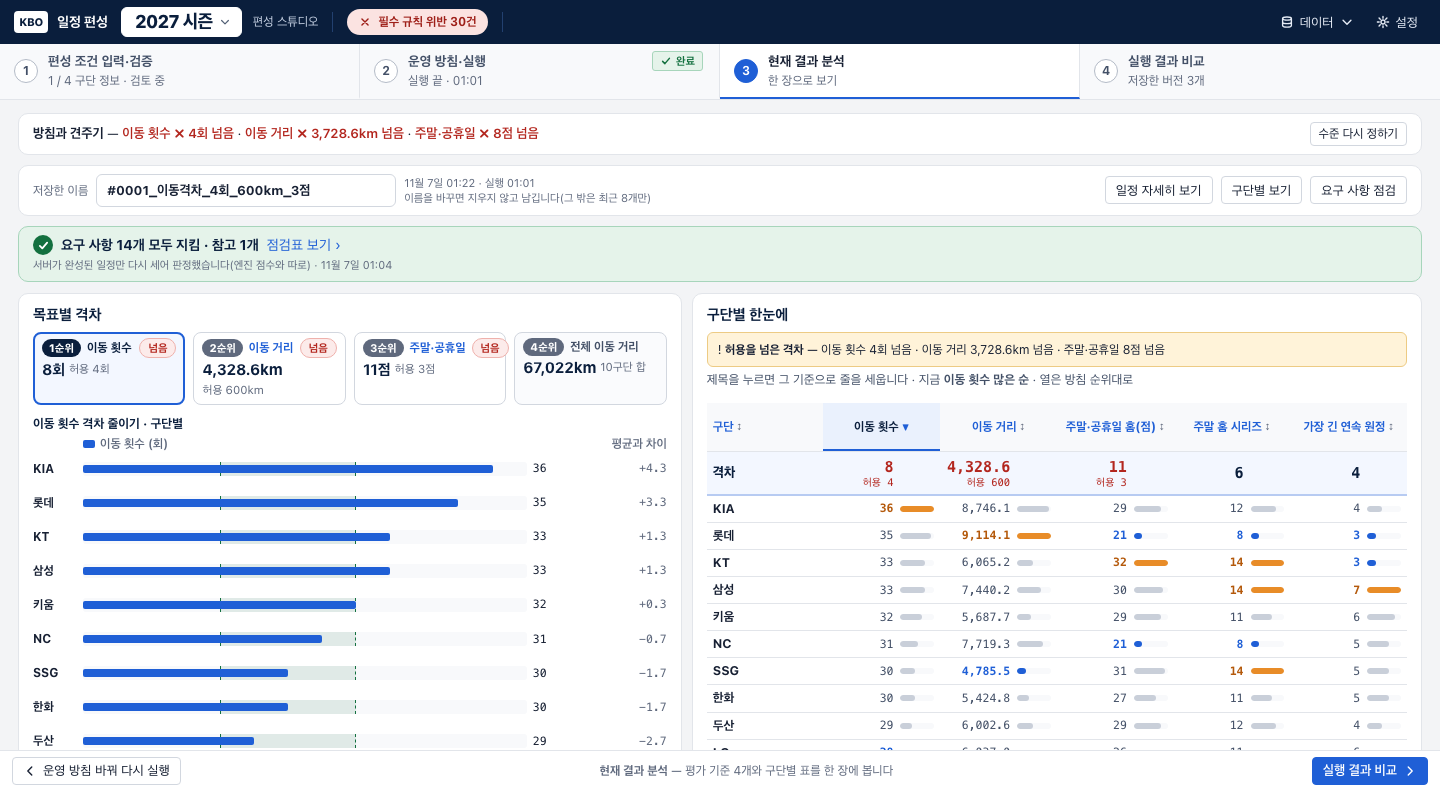
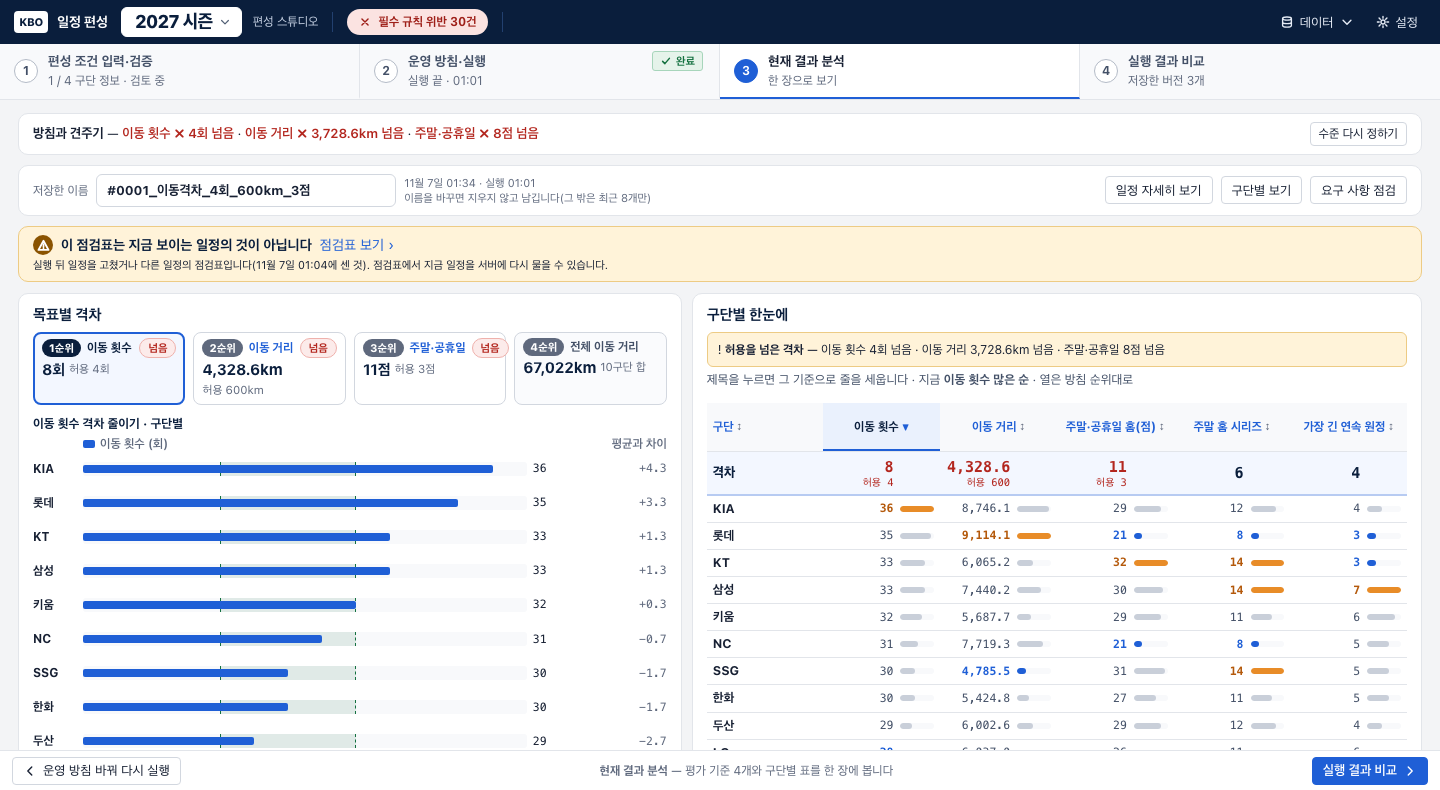
점검표에 일정 지문(planSig): 서버가 점검한 일정의 지문을 찍고, 화면은 지금 일정의 지문과 같을 때만 「이 일정의 점검표」로 보인다
- RequirementChecker.planSig = 시리즈(홈>원정/연전)·연전 기간(시작일/연전)·배정(시리즈 번호 순)을 FNV-1a 32비트로 줄인 값.
  ui/core/engine-adapter.js planSignature가 같은 식(PlanSignatureTest·run-tests.js가 같은 상수 64bedacb로 맞춤)
- 지문이 다르면(실행 뒤 경기를 옮겼거나 다른 일정의 점검표) 현재 결과 분석 요약 줄·점검표·출전표가 지킨 개수를 내걸지 않고
  「이 점검표는 지금 보이는 일정의 것이 아닙니다」를 노랑 띠로 크게 적는다. 실행 결과 비교 표도 「다른 일정의 점검표」.
  점검 경로 demo=verify(2025 점검표를 2027 달력에 얹음)가 이제 그 띠를 보여 준다

Changed region(s): [[0.0, 0.2734, 1.0, 0.3646], [0.3438, 0.2127, 0.375, 0.243]]

diff --git a/ui/app/studio/verify-view.js b/ui/app/studio/verify-view.js
@@ -23,12 +23,15 @@
   const V = P.verify = { data: null, at: null, sig: null, loading: false, error: null, offline: false, filter: 'all', open: {}, gopen: {}, day: null };
 
   // ───────── 공통 ─────────
-  /** 일정의 지문: 시리즈 수 + 배정. 실행 뒤 경기를 옮겼는지 본다 */
-  V.planSig = (st) => st.matches.length + ':' + st.plan.map((x) => x.calendar).join(',');
+  /** 일정의 지문(서버 점검표의 planSig와 같은 식, core/engine-adapter.js). 점검표가 지금 보이는 일정의 것인지는 이 값이 같은지로만 본다 */
+  V.planSig = (st) => KBO.Engine.planSignature(st, st.plan);
+  /** 점검표가 이 일정(또는 저장한 버전)의 것인가 */
+  V.matches = (v, st) => !!(v && v.planSig && st && v.planSig === V.planSig(st));
   /** 결과·버전에 남길 몫: 근거 원자료(tables)는 크니까 뺀다 */
   V.slim = (v) => { if (!v) return null; const o = Object.assign({}, v); delete o.tables; return o; };
-  /** 실행이 끝날 때 받은 점검표(원자료 포함)를 이 화면의 값으로 삼는다 */
-  V.took = (v, st) => { V.data = v; V.at = v.checkedAt; V.sig = V.planSig(st); V.error = null; V.offline = false; V.day = null; V.gopen = {}; V.open = {}; };
+  /** 실행이 끝날 때 받은 점검표(원자료 포함)를 이 화면의 값으로 삼는다. 지문은 점검표에 적힌 것 — 지금 일정과 같은지는 보일 때마다 견준다 */
+  V.took = (v) => { V.data = v; V.at = v.checkedAt; V.error = null; V.offline = false; V.day = null; V.gopen = {}; V.open = {}; };
+  const STALE = '이 점검표는 지금 보이는 일정의 것이 아닙니다';
   const when = (iso) => { if (!iso) return ''; const d = new Date(iso), p = (x) => String(x).padStart(2, '0'); return (d.getMonth() + 1) + '월 ' + d.getDate() + '일 ' + p(d.getHours()) + ':' + p(d.getMinutes()); };
   const verdictIcon = (v) => (v === FAIL ? '<span class="pf-vic bad">' + icon('x') + '</span>' : v === INFO ? '<span class="pf-vic info">' + icon('info') + '</span>' : '<span class="pf-vic ok">' + icon('check') + '</span>');
   const verdictWord = (v) => (v === FAIL ? '어김' : v === INFO ? '참고' : '지킴');
@@ -40,30 +43,33 @@
   // ───────── 요약 줄(현재 결과 분석) · 비교 표 칸 ─────────
   /** 현재 결과 분석 맨 위 줄: 늘 보인다. 지키면 개수, 어기면 어긴 항목 이름. 밑 줄에 셈 방법과 시각 */
   V.summary = function (res) {
-    const st = app().state, v = res && res.verification, changed = !!(res && res.planSig && res.planSig !== V.planSig(st));
+    const st = app().state, v = res && res.verification;
     let cls, head, note;
     if (!v || v.error) { cls = 'none'; head = '요구 사항 점검 없음'; note = v && v.error ? v.error : res && res.engine && res.engine !== 'REST' ? '서버에 연결되지 않아 시험 엔진으로 낸 결과입니다. 서버 엔진으로 실행하면 서버가 요구 사항을 다시 셉니다.' : '이 결과에는 서버 점검표가 없습니다. 점검표에서 지금 일정을 서버에 다시 물을 수 있습니다.'; }
+    else if (!V.matches(v, st)) { cls = 'stale'; head = STALE; note = '실행 뒤 일정을 고쳤거나 다른 일정의 점검표입니다(' + when(v.checkedAt) + '에 센 것). 점검표에서 지금 일정을 서버에 다시 물을 수 있습니다.'; } // 지문이 다르면 지킨 개수를 내걸지 않는다
     else if (v.failed) { cls = 'bad'; head = '요구 사항 ' + v.failed + '개 어김 — ' + (v.failedTitles || []).join(' · '); note = METHOD + ' · ' + when(v.checkedAt); }
     else { cls = 'ok'; head = '요구 사항 ' + v.total + '개 모두 지킴' + (v.info ? ' · 참고 ' + v.info + '개' : ''); note = METHOD + ' · ' + when(v.checkedAt); }
-    if (changed) note += ' · 실행 뒤 일정을 고쳤습니다 — 점검표에서 지금 일정을 다시 셉니다';
-    return '<div class="pf-sec pf-vsum ' + cls + '"><div class="pf-vsum-row">' + (cls === 'none' ? '<span class="pf-vic none">' + icon('todo') + '</span>' : verdictIcon(cls === 'bad' ? FAIL : PASS)) + '<b>' + esc(head) + '</b><button class="pf-link" data-act="go-step" data-step="8">점검표 보기 ›</button></div><div class="xs muted">' + esc(note) + '</div></div>';
+    return '<div class="pf-sec pf-vsum ' + cls + '"><div class="pf-vsum-row">' + (cls === 'none' ? '<span class="pf-vic none">' + icon('todo') + '</span>' : cls === 'stale' ? '<span class="pf-vic warn">' + icon('warn') + '</span>' : verdictIcon(cls === 'bad' ? FAIL : PASS)) + '<b>' + esc(head) + '</b><button class="pf-link" data-act="go-step" data-step="8">점검표 보기 ›</button></div><div class="xs muted">' + esc(note) + '</div></div>';
   };
-  /** 실행 결과 비교 표의 「요구 사항」 칸 */
-  V.cell = function (v) {
+  /** 실행 결과 비교 표의 「요구 사항」 칸. 버전의 일정(matches·plan·그때 달력)과 점검표의 지문이 같을 때만 개수를 적는다 */
+  V.cell = function (ver) {
+    const v = ver && ver.verification;
     if (!v || v.error) return '<span class="muted small">점검 없음</span>';
+    const cal = ver.inputs && ver.inputs.calendar ? ver.inputs.calendar : app().state.calendar;
+    if (v.planSig !== KBO.Engine.planSignature({ matches: ver.matches || [], calendar: cal }, ver.plan || [])) return '<span class="pf-tag est">다른 일정의 점검표</span>';
     return v.failed ? '<span class="pf-tag over">' + v.failed + '개 어김</span> <span class="small">' + (v.total - v.failed) + '/' + v.total + '</span>' : '<span class="pf-tag ok">' + v.total + '/' + v.total + ' 지킴</span>';
   };
 
   // ───────── 서버에 묻기 ─────────
   /** 지금 일정으로 서버에 점검을 청한다(이미 같은 일정의 점검표가 있으면 그대로) */
   function ensure(force) {
-    const st = app().state, sig = V.planSig(st);
+    const st = app().state;
     if (V.loading) return;
-    if (!force && V.data && V.sig === sig) return;
+    if (!force && V.matches(V.data, st)) return;
     if (!fromRest()) {
-      // 서버 없음: 실행 때 받아 둔 것(판정·근거 줄)이라도 보여 주되, 지금 일정과 다르면 그 사실을 적는다
+      // 서버 없음: 실행 때 받아 둔 것(판정·근거 줄)이라도 보여 주되, 지금 일정과 지문이 다르면 화면이 그 사실을 크게 적는다(render의 stale)
       const res = st.meta.result;
-      if (!V.data && res && res.verification && !res.verification.error) { V.data = res.verification; V.at = res.verification.checkedAt; V.sig = res.planSig || null; }
+      if (!V.data && res && res.verification && !res.verification.error) { V.data = res.verification; V.at = res.verification.checkedAt; }
       V.offline = true; V.error = null;
       return;
     }
@@ -72,7 +78,7 @@
     app().engine.verify(st, plan).then((v) => {
       V.loading = false;
       if (!v || v.error) { V.error = (v && v.error) || '점검표를 받지 못했습니다.'; }
-      else { V.data = v; V.at = v.checkedAt; V.sig = sig; V.day = null; V.gopen = {}; V.open = {}; }
+      else { V.took(v); }
       S.scheduleRender();
     }).catch((e) => { V.loading = false; V.error = e && e.offline ? null : (e && e.message) || '서버에 연결하지 못했습니다.'; V.offline = !!(e && e.offline); S.scheduleRender(); });
   }
@@ -139,15 +145,16 @@
   // ───────── 화면 ─────────
   S.steps[8] = {
     render() {
-      const st = app().state, res = st.meta.result, v = V.data, sig = V.planSig(st), stale = v && V.sig && V.sig !== sig;
-      const status = V.loading ? '<span class="pf-tag blue">지금 일정을 서버가 다시 세는 중…</span>' : V.error ? '<span class="pf-tag over">점검 못 함</span> <span class="small">' + esc(V.error) + '</span>' : V.offline ? '<span class="pf-tag est">서버 점검을 할 수 없음</span> <span class="small muted">서버에 연결되지 않았습니다' + (v ? ' · 아래는 ' + when(V.at) + '에 받아 둔 점검표' + (stale ? '(그 뒤 일정을 고쳤습니다)' : '') : '') + '</span>' : v ? '<span class="small muted">' + METHOD + ' · ' + when(V.at) + (stale ? ' · <b>그 뒤 일정을 고쳤습니다</b>' : '') + '</span>' : '';
-      const tools = '<span class="grow"></span>' + (fromRest() ? '<button class="btn sm" data-act="vf-again"' + (V.loading ? ' disabled' : '') + '>' + icon('redo') + '지금 일정 다시 점검</button>' : '') + (v && v.tables ? '<button class="btn sm" data-act="vf-xlsx">' + icon('download') + '엑셀로 받기</button>' : '');
+      const st = app().state, res = st.meta.result, v = V.data, stale = !!(v && !V.matches(v, st)); // 지문이 다르면 = 다른 일정의 점검표
+      const status = V.loading ? '<span class="pf-tag blue">지금 일정을 서버가 다시 세는 중…</span>' : V.error ? '<span class="pf-tag over">점검 못 함</span> <span class="small">' + esc(V.error) + '</span>' : V.offline ? '<span class="pf-tag est">서버 점검을 할 수 없음</span> <span class="small muted">서버에 연결되지 않았습니다' + (v ? ' · 아래는 ' + when(V.at) + '에 받아 둔 점검표' : '') + '</span>' : v ? '<span class="small muted">' + METHOD + ' · ' + when(V.at) + '</span>' : '';
+      const tools = '<span class="grow"></span>' + (fromRest() ? '<button class="btn sm" data-act="vf-again"' + (V.loading ? ' disabled' : '') + '>' + icon('redo') + '지금 일정 다시 점검</button>' : '') + (v && v.tables && !stale ? '<button class="btn sm" data-act="vf-xlsx">' + icon('download') + '엑셀로 받기</button>' : '');
       let head;
       if (!v) head = '<div class="pf-sec pf-vsum none"><div class="pf-vsum-row"><span class="pf-vic none">' + icon('todo') + '</span><b>' + (V.loading ? '점검표를 받는 중' : '점검표가 없습니다') + '</b>' + tools + '</div><div class="xs">' + status + '</div></div>';
+      else if (stale) head = '<div class="pf-sec pf-vsum stale"><div class="pf-vsum-row"><span class="pf-vic warn">' + icon('warn') + '</span><b>' + STALE + '</b>' + tools + '</div><div class="xs">실행 뒤 일정을 고쳤거나 다른 일정의 점검표입니다. 아래 판정·근거는 <b>' + when(V.at) + '에 센 그 일정</b>의 것이지 지금 달력의 것이 아닙니다. ' + (fromRest() ? '「지금 일정 다시 점검」을 누르면 서버가 지금 일정을 다시 셉니다.' : '서버에 연결되면 지금 일정을 다시 셀 수 있습니다.') + ' ' + status + '</div></div>';
       else head = '<div class="pf-sec pf-vsum ' + (v.failed ? 'bad' : 'ok') + '"><div class="pf-vsum-row">' + verdictIcon(v.failed ? FAIL : PASS) + '<b>' + (v.failed ? '요구 사항 ' + v.failed + '개 어김 — ' + esc((v.failedTitles || []).join(' · ')) : '요구 사항 ' + v.total + '개 모두 지킴') + '</b>' + (v.info ? '<span class="pf-tag got">참고 ' + v.info + '개 · 정한 값이 없어 숫자만</span>' : '') + tools + '</div><div class="xs">' + status + '</div></div>';
-      const list = v ? '<div class="pf-sec pf-vlist"><h3>점검표<span class="r">' + (v.passed || 0) + ' 지킴 · ' + (v.failed || 0) + ' 어김 · ' + (v.info || 0) + ' 참고</span></h3><p class="pf-d">묶음을 누르면 항목이, 「근거」를 누르면 서버가 일정에서 뽑은 줄이 보입니다. 다 지킨 묶음은 접혀 있습니다.</p>' + (v.groups || []).map(groupHtml).join('') + '</div>'
+      const list = v ? '<div class="pf-sec pf-vlist' + (stale ? ' pf-vstale' : '') + '"><h3>점검표' + (stale ? ' <span class="pf-tag est">다른 일정</span>' : '') + '<span class="r">' + (v.passed || 0) + ' 지킴 · ' + (v.failed || 0) + ' 어김 · ' + (v.info || 0) + ' 참고</span></h3><p class="pf-d">' + (stale ? '지금 보이는 일정의 판정이 아닙니다. ' : '') + '묶음을 누르면 항목이, 「근거」를 누르면 서버가 일정에서 뽑은 줄이 보입니다. 다 지킨 묶음은 접혀 있습니다.</p>' + (v.groups || []).map(groupHtml).join('') + '</div>'
         : '<div class="pf-sec pf-vlist"><h3>점검표</h3><p class="pf-d">' + (V.offline ? '서버에 연결되면 지금 일정을 다시 셉니다. 서버 엔진으로 실행한 결과에는 실행이 끝날 때 받은 점검표가 함께 남습니다.' : V.error ? '서버가 점검표를 주지 못했습니다.' : '잠시만 기다려 주세요.') + '</p>' + (!res ? '<p class="pf-d">아직 실행한 결과가 없습니다.</p>' : '') + '</div>';
-      const right = v && v.tables ? dayHtml(v) + gridHtml(v) : '';
+      const right = v && v.tables ? (stale ? '<div class="pf-note warn" style="margin:0">아래 출전표는 ' + when(V.at) + '에 센 다른 일정의 것입니다.</div>' : '') + dayHtml(v) + gridHtml(v) : '';
       return '<div class="stepview no-band"><div class="pf-page pf-vf">' + head + '<div class="pf-cols pf-vcols">' + list + '<div class="pf-vright">' + right + '</div></div></div></div>';
     },
     after() { ensure(false); }
@@ -195,10 +202,11 @@
     S.demos.run27();
     const go = () => fetch('show/fixtures/result-default.json').then((r) => (r.ok ? r.json() : null)).then((j) => {
       if (!j || !j.verification) return;
-      V.took(j.verification, app().state); V.offline = true;
+      // 2025 기본 결과의 점검표를 2027 달력에 얹는 것이라 지문이 다르다 → 화면이 「다른 일정의 점검표」로 알려야 한다(그것이 이 점검 경로가 보는 것)
+      V.took(j.verification); V.offline = true;
       V.gopen.special = true; V.open.opening = true; // 점검 화면 그림에 펼친 묶음·근거 표가 보이게
-      const slim = V.slim(j.verification), sig = V.planSig(app().state);
-      app().store.commit('점검용 점검표', (s) => { if (s.meta.result) { s.meta.result.verification = slim; s.meta.result.planSig = sig; s.meta.result.engine = 'REST'; } }, { tags: ['meta'], undo: false });
+      const slim = V.slim(j.verification);
+      app().store.commit('점검용 점검표', (s) => { if (s.meta.result) { s.meta.result.verification = slim; s.meta.result.engine = 'REST'; } }, { tags: ['meta'], undo: false });
       S.scheduleRender();
     }).catch(() => { /* 없으면 서버 없음 화면 */ });
     if (typeof fetch === 'function') go();

diff --git a/ui/app/studio/plan-flow.js b/ui/app/studio/plan-flow.js
@@ -733,7 +733,7 @@
     S.ls.set(noKey(YEAR_NEW), String(no)); // 목록보다 먼저 센다(목록을 못 써도 번호는 다시 쓰지 않는다)
     const res = { at: new Date().toISOString(), elapsedMs: run.elapsed, why, objective: ob, sig: inputSig(st), calSig: calSig(st), engine: app().engineConfig.kind, no, option, name: runName(no, option, ob) };
     // 서버 요구 사항 점검표(엔진 점수와 따로). 근거 원자료(날짜별 출전표)는 커서 빼고 판정·기준·근거 줄만 남긴다 — 점검 화면이 지금 일정으로 서버에 다시 묻는다
-    if (P.verify) { res.verification = P.verify.slim(S.run && S.run.verification); res.planSig = P.verify.planSig(st); if (S.run && S.run.verification) P.verify.took(S.run.verification, st); }
+    if (P.verify) { res.verification = P.verify.slim(S.run && S.run.verification); if (S.run && S.run.verification) P.verify.took(S.run.verification); } // 점검표에 적힌 지문(planSig)으로 지금 일정의 것인지 가린다
     const v = storeRun(res, ex);
     res.vid = v ? v.id : null;
     app().store.commit('실행 결과 기록', (s) => { s.meta.result = Object.assign({}, res); }, { tags: ['meta'], undo: false });
@@ -955,7 +955,7 @@
     const changed = inputSig(before) !== inputSig(base);
     app().commit('버전 불러오기: ' + v.name, (s) => {
       applyVersion(s, v);
-      s.meta.result = { at: new Date().toISOString(), elapsedMs: v.elapsedMs, why: '저장한 버전', objective: v.objective, from: v.id, engine: v.engine, sig: inputSig(s), calSig: calSig(s), verification: v.verification || null, planSig: P.verify ? P.verify.planSig(s) : null };
+      s.meta.result = { at: new Date().toISOString(), elapsedMs: v.elapsedMs, why: '저장한 버전', objective: v.objective, from: v.id, engine: v.engine, sig: inputSig(s), calSig: calSig(s), verification: v.verification || null };
     }, ['teams', 'calendar', 'matches', 'plan', 'games', 'settings', 'events', 'meta']);
     S.toast('「' + v.name + '」을(를) 불러왔습니다.' + (changed ? ' 편성 조건도 그 버전을 만들 때로 돌아갔습니다.' : ''), 'ok', changed ? 5000 : undefined);
     S.go({ step: 5, sel: null });

diff --git a/ui/core/engine-adapter.js b/ui/core/engine-adapter.js
@@ -227,11 +227,31 @@
     return this._fetch('/api/v1/verify', { problem, plan: plan || problem.plan || null });
   };
 
+  /**
+   * 일정의 지문. 서버 점검표(RequirementChecker)의 planSig와 같은 식: 시리즈(홈>원정/연전) · 연전 기간(시작일/연전) · 배정(시리즈 번호 순 기간 번호,
+   * 없으면 -1)을 한 줄로 잇고 FNV-1a 32비트(UTF-8)로 줄인 8자리 16진수. 화면은 점검표의 planSig와 지금 일정의 지문이 같을 때만
+   * 「이 일정의 점검표」로 보여 주고, 다르면 숨기지 않고 「다른 일정의 점검표」라고 알린다.
+   */
+  function planSignature(problem, plan) {
+    const matches = problem.matches || [], cal = problem.calendar || [], p = plan || problem.plan || [];
+    const slotOf = new Array(matches.length).fill(-1);
+    for (const x of p) { if (x && x.match >= 0 && x.match < matches.length && x.calendar != null && x.calendar >= 0) slotOf[x.match] = x.calendar; }
+    const text = matches.map((m) => m.home + '>' + m.away + '/' + (m.consecutive | 0)).join(',') + '|' +
+      cal.map((c) => String(c.datetime || c.date || '').slice(0, 10) + '/' + (c.consecutive | 0)).join(',') + '|' + slotOf.join(',');
+    return fnv1a(text);
+  }
+  function fnv1a(text) {
+    const bytes = typeof TextEncoder !== 'undefined' ? new TextEncoder().encode(text) : Buffer.from(text, 'utf8');
+    let h = 0x811c9dc5;
+    for (const b of bytes) { h ^= b; h = Math.imul(h, 0x01000193); }
+    return (h >>> 0).toString(16).padStart(8, '0');
+  }
+
   function createEngine(config) {
     const c = config || {};
     if (c.kind === 'REST') return new RestEngineAdapter(c);
     return new MockEngineAdapter(c);
   }
 
-  KBO.Engine = { SolveHandle, MockEngineAdapter, RestEngineAdapter, createEngine, toSolverProblem, workerSource, scoreLocal };
+  KBO.Engine = { SolveHandle, MockEngineAdapter, RestEngineAdapter, createEngine, toSolverProblem, workerSource, scoreLocal, planSignature, fnv1a };
 });

diff --git a/ui/core/test/run-tests.js b/ui/core/test/run-tests.js
@@ -861,6 +861,16 @@ test('목적식 순서·허용 차이: 순위대로 점수를 놓고, 가장 많
   assert(plain.score.soft[4] === -gaps.totalKm, '설정이 없으면 기존 순서');
 });
 
+test('일정 지문(planSignature): 서버 점검표의 planSig(Java RequirementChecker, PlanSignatureTest)와 같은 값 · 경기 하나를 옮기면 달라짐', () => {
+  eq(Engine.fnv1a('hello'), '4f9f2cab'); eq(Engine.fnv1a('두산'), '1ff5cc87');
+  const p = JSON.parse(fs.readFileSync(path.resolve(core, '..', '..', 'data', 'baseball', 'project_2025.json'), 'utf8'));
+  eq(Engine.planSignature(p, null), '64bedacb');
+  const moved = p.plan.map((x) => Object.assign({}, x)); moved[3].calendar = 7;
+  assert(Engine.planSignature(p, moved) !== '64bedacb', '배정이 바뀌면 지문도 바뀐다');
+  // 화면 상태처럼 plan 순서가 섞여도 시리즈 번호 순으로 읽으므로 같다
+  eq(Engine.planSignature(p, p.plan.slice().reverse()), '64bedacb');
+});
+
 (async () => {
   for (const t of queue) {
     try { await t.fn(); passed++; console.log('✔ ' + t.name); }

diff --git a/ui/app/studio/plan-flow.css b/ui/app/studio/plan-flow.css
@@ -679,3 +679,8 @@ table.pf-vgrid th:not(:first-child), table.pf-vgrid td:not(:first-child) { text-
 .pf-vday-teams span { font-size: 11.5px; border-radius: 10px; padding: 0 8px; line-height: 18px; border: 1px solid var(--ok-line); background: var(--ok-bg); color: var(--ok); font-weight: 700; }
 .pf-vday-teams span.bad { border-color: var(--bad-line); background: var(--bad-bg); color: var(--bad); }
 .pf-vday .ok { color: var(--ok); font-weight: 700; } .pf-vday .bad { color: var(--bad); font-weight: 700; }
+/* 지문이 다른 점검표(실행 뒤 일정을 고쳤거나 다른 일정): 노랑 띠로 크게, 지킨 개수를 내걸지 않는다 */
+.pf-vsum.stale { border-color: var(--warn-line); background: var(--warn-bg); }
+.pf-vsum.stale .xs { color: var(--text); }
+.pf-vic.warn { background: var(--warn); }
+.pf-vlist.pf-vstale { opacity: .82; }

diff --git a/src/main/java/org/optaplanner/examples/baseball/web/RequirementChecker.java b/src/main/java/org/optaplanner/examples/baseball/web/RequirementChecker.java
@@ -164,6 +164,29 @@ public final class RequirementChecker {
             }
         }
 
+        /**
+         * 점검한 일정의 지문: 시리즈 목록(홈>원정/연전) · 연전 기간(시작일/연전) · 배정(시리즈 id 순 기간 id, 미배정 -1)을 한 줄로 잇고
+         * FNV-1a 32비트로 줄인 8자리 16진수. 화면({@code ui/core/engine-adapter.js planSignature})이 같은 식으로 지금 일정의 지문을 만들어
+         * 견주고, 다르면 「다른 일정의 점검표」라고 알린다 — 점검표가 보이는 일정의 것인지 서버가 아니라 지문이 증명한다.
+         */
+        String signature() {
+            StringBuilder sb = new StringBuilder();
+            for (int i = 0; i < series.size(); i++) {
+                Series s = series.get(i);
+                sb.append(i > 0 ? "," : "").append(s.home()).append('>').append(s.away()).append('/').append(s.length());
+            }
+            sb.append('|');
+            for (int i = 0; i < slots.size(); i++) {
+                Slot s = slots.get(i);
+                sb.append(i > 0 ? "," : "").append(s.start()).append('/').append(s.length());
+            }
+            sb.append('|');
+            for (int i = 0; i < series.size(); i++) {
+                sb.append(i > 0 ? "," : "").append(slotOfSeries.getOrDefault(i, -1));
+            }
+            return fnv1a(sb.toString());
+        }
+
         Slot slotContaining(LocalDate d) {
             for (Slot s : slots) {
                 if (!d.isBefore(s.start()) && !d.isAfter(s.end())) {
@@ -317,6 +340,7 @@ public final class RequirementChecker {
             }
         }
         return Json.obj("checkedAt", Instant.now().toString(), "method", "서버가 완성된 일정을 날짜별 경기로 풀어 다시 셈(엔진 점수와 따로)",
+                "planSig", in.signature(),
                 "total", passed + failed, "passed", passed, "failed", failed, "info", info, "ok", failed == 0,
                 "failedTitles", Json.arr(failedTitles), "groups", Json.arr(groups), "tables", tables(in));
     }
@@ -1126,6 +1150,21 @@ public final class RequirementChecker {
     }
 
     // ───────────── 공통 ─────────────
+
+    /** 시험·도구용: 이 문제·배정의 지문({@link Input#signature()}). */
+    static String planSignature(JSONObject problem, JSONArray plan) {
+        return new Input(problem, plan).signature();
+    }
+
+    /** FNV-1a 32비트(UTF-8 바이트) → 8자리 16진수. 화면의 같은 함수와 값이 같아야 한다. */
+    static String fnv1a(String text) {
+        int h = 0x811c9dc5;
+        for (byte b : text.getBytes(java.nio.charset.StandardCharsets.UTF_8)) {
+            h ^= (b & 0xff);
+            h *= 0x01000193;
+        }
+        return String.format("%08x", h);
+    }
 
     static LocalDate parseDate(String s) {
         if (s == null || s.length() < 10) {

diff --git a/src/test/java/org/optaplanner/examples/baseball/web/PlanSignatureTest.java b/src/test/java/org/optaplanner/examples/baseball/web/PlanSignatureTest.java
@@ -1,0 +1,37 @@
+package org.optaplanner.examples.baseball.web;
+
+import static org.assertj.core.api.Assertions.assertThat;
+
+import org.json.simple.JSONArray;
+import org.json.simple.JSONObject;
+import org.junit.jupiter.api.Test;
+
+/**
+ * 점검표의 일정 지문(planSig)은 화면({@code ui/core/engine-adapter.js planSignature}, {@code ui/core/test/run-tests.js}의 같은 상수)과
+ * 값이 같아야 한다. 화면은 이 지문으로 점검표가 지금 보이는 일정의 것인지 가려낸다.
+ */
+class PlanSignatureTest {
+
+    @Test
+    void fnv1aMatchesTheBrowser() {
+        assertThat(RequirementChecker.fnv1a("hello")).isEqualTo("4f9f2cab");
+        assertThat(RequirementChecker.fnv1a("두산")).isEqualTo("1ff5cc87");
+    }
+
+    @Test
+    void the2025ProjectHasTheSameSignatureAsTheBrowser() throws Exception {
+        JSONObject p = RequirementChecker2025Test.project2025();
+        assertThat(RequirementChecker.planSignature(p, null)).isEqualTo("64bedacb");
+        JSONObject v = RequirementChecker.check(p, null);
+        assertThat(v.get("planSig")).isEqualTo("64bedacb");
+    }
+
+    @Test
+    @SuppressWarnings("unchecked")
+    void movingOneSeriesChangesTheSignature() throws Exception {
+        JSONObject p = RequirementChecker2025Test.project2025();
+        JSONArray plan = Json.array(p.get("plan"));
+        ((JSONObject) plan.get(3)).put("calendar", 7L);
+        assertThat(RequirementChecker.planSignature(p, null)).isNotEqualTo("64bedacb");
+    }
+}
